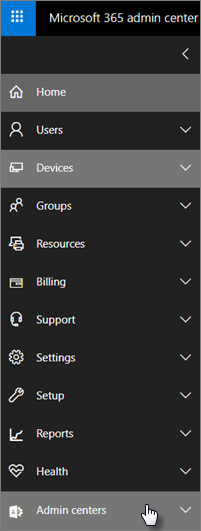
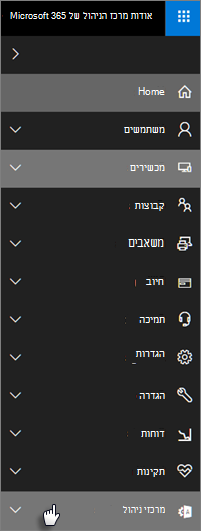
commit translated contents

diff --git a/microsoft-365/business/install-office-on-windows-10-during-setup.md b/microsoft-365/business/install-office-on-windows-10-during-setup.md
@@ -25,18 +25,18 @@ search.appverid:
 - MET150
 - MOE150
 ms.assetid: 5ffd5327-a83a-4d53-94d6-22ba2f9fd090
-description: גלה כיצד, באמצעות Microsoft 365 Business Premium, באפשרותך לוודא באופן אוטומטי שלמשתמשים יש את הגירסה העדכנית ביותר של Office בכל מכשירי Windows 10 שלהם.
-ms.openlocfilehash: d3c62eb42ea73c7af6df6012dbc9488828cd1ba8
-ms.sourcegitcommit: 53acc851abf68e2272e75df0856c0e16b0c7e48d
+description: גלה כיצד, Microsoft 365 Business Premium, באפשרותך לוודא באופן אוטומטי שלמשתמשים יש את הגירסה העדכנית ביותר של Office בכל המכשירים Windows 10 שלהם.
+ms.openlocfilehash: 869a44196e93ed0c9f7f6f64b21fe9b2302e9a48c4b0bdcdc3a09d28bb954d1c
+ms.sourcegitcommit: a1b66e1e80c25d14d67a9b46c79ec7245d88e045
 ms.translationtype: MT
 ms.contentlocale: he-IL
-ms.lasthandoff: 04/02/2021
-ms.locfileid: "51580173"
+ms.lasthandoff: 08/05/2021
+ms.locfileid: "53887542"
 ---
 # <a name="install-office-on-windows-10-during-setup"></a>התקנת Office ב- Windows 10 במהלך ההתקנה
 
 ![כרזה להצביע על https://aka.ms/aboutM365preview .](../media/m365admincenterchanging.png)
 
-הגדרה זו כבויה כברירת מחדל. באפשרותך להפעיל אותה כדי לוודא שלמשתמשים יש את הגירסה העדכנית ביותר של Office בכל מכשירי Windows 10 שלהם, אך תחילה ודא שכל התנאים המוקדמים קיימים. המשתמשים חייבים להיות מורשים עבור Microsoft 365 Business Premium כדי שהגדרה זו תדחוף את התוכנה למכשיר, בנוסף לדרישות אחרות המתוארות בפריסת לקוח ההכנה ל- [Office על-ידי Microsoft 365 Business Premium.](prepare-for-office-client-deployment.md)
+הגדרה זו כבויה כברירת מחדל. באפשרותך להפעיל אותה כדי לוודא שלמשתמשים יש את הגירסה העדכנית ביותר של Office בכל מכשירי Windows 10 שלהם, אך תחילה ודא שכל התנאים המוקדמים קיימים. יש לתת למשתמשים רשיון עבור Microsoft 365 Business Premium כדי שהגדרה זו תדחוף את התוכנה למכשיר, בנוסף לדרישות אחרות המתוארות בסעיף [התכונן Office פריסת לקוח על-ידי Microsoft 365 Business Premium.](prepare-for-office-client-deployment.md)
   
 מומלץ לקבל את הגדרת ברירת המחדל במהלך ההגדרה.

diff --git a/microsoft-365/business/migrate-to-microsoft-365-business.md b/microsoft-365/business/migrate-to-microsoft-365-business.md
@@ -24,12 +24,12 @@ search.appverid:
 - MET150
 ms.assetid: 5b4ba843-24b8-4526-8e1f-f9b9eab89d06
 description: למד את ההבדל בין Microsoft 365 Business Standard לבין Microsoft 365 Business Premium ואופן השדרוג ל- Microsoft 365 Business Premium.
-ms.openlocfilehash: 0968b877820590987f6f3ceca3efbd106b62cbd1
-ms.sourcegitcommit: a05f61a291eb4595fa9313757a3815b7f217681d
+ms.openlocfilehash: 563df2610351e2c025c618086c038750999c03df60b93b757865f76fbf86c834
+ms.sourcegitcommit: a1b66e1e80c25d14d67a9b46c79ec7245d88e045
 ms.translationtype: MT
 ms.contentlocale: he-IL
-ms.lasthandoff: 05/29/2021
-ms.locfileid: "52705489"
+ms.lasthandoff: 08/05/2021
+ms.locfileid: "53906726"
 ---
 # <a name="upgrade-to-microsoft-365-business-premium-from-microsoft-365-business-standard"></a>שדרג Microsoft 365 Business Premium מ- Microsoft 365 Business Standard
 
